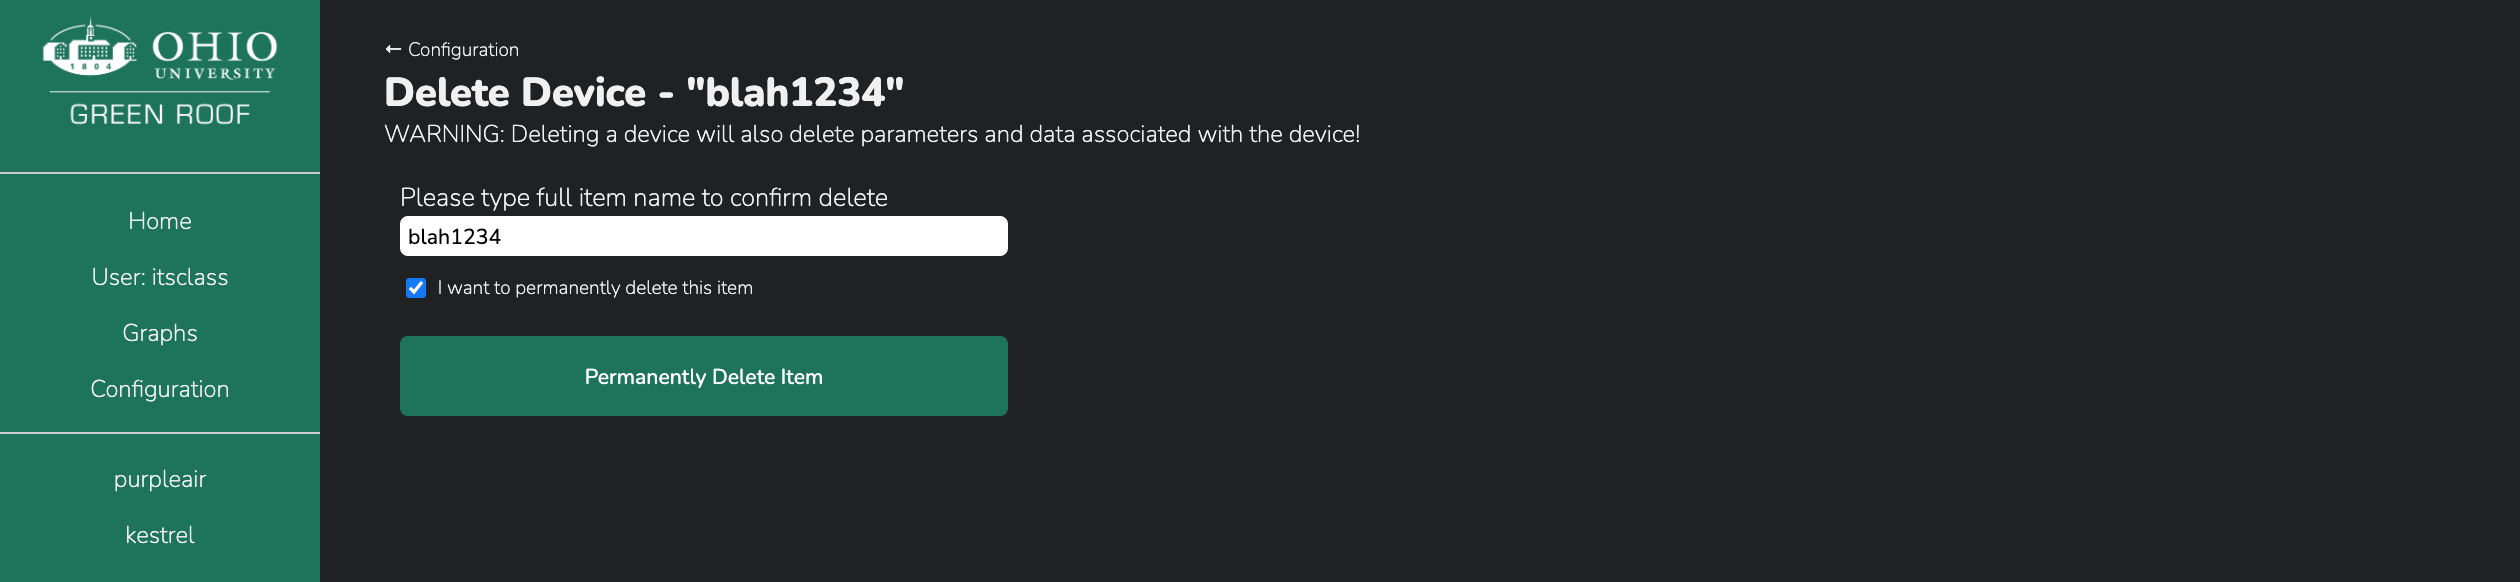
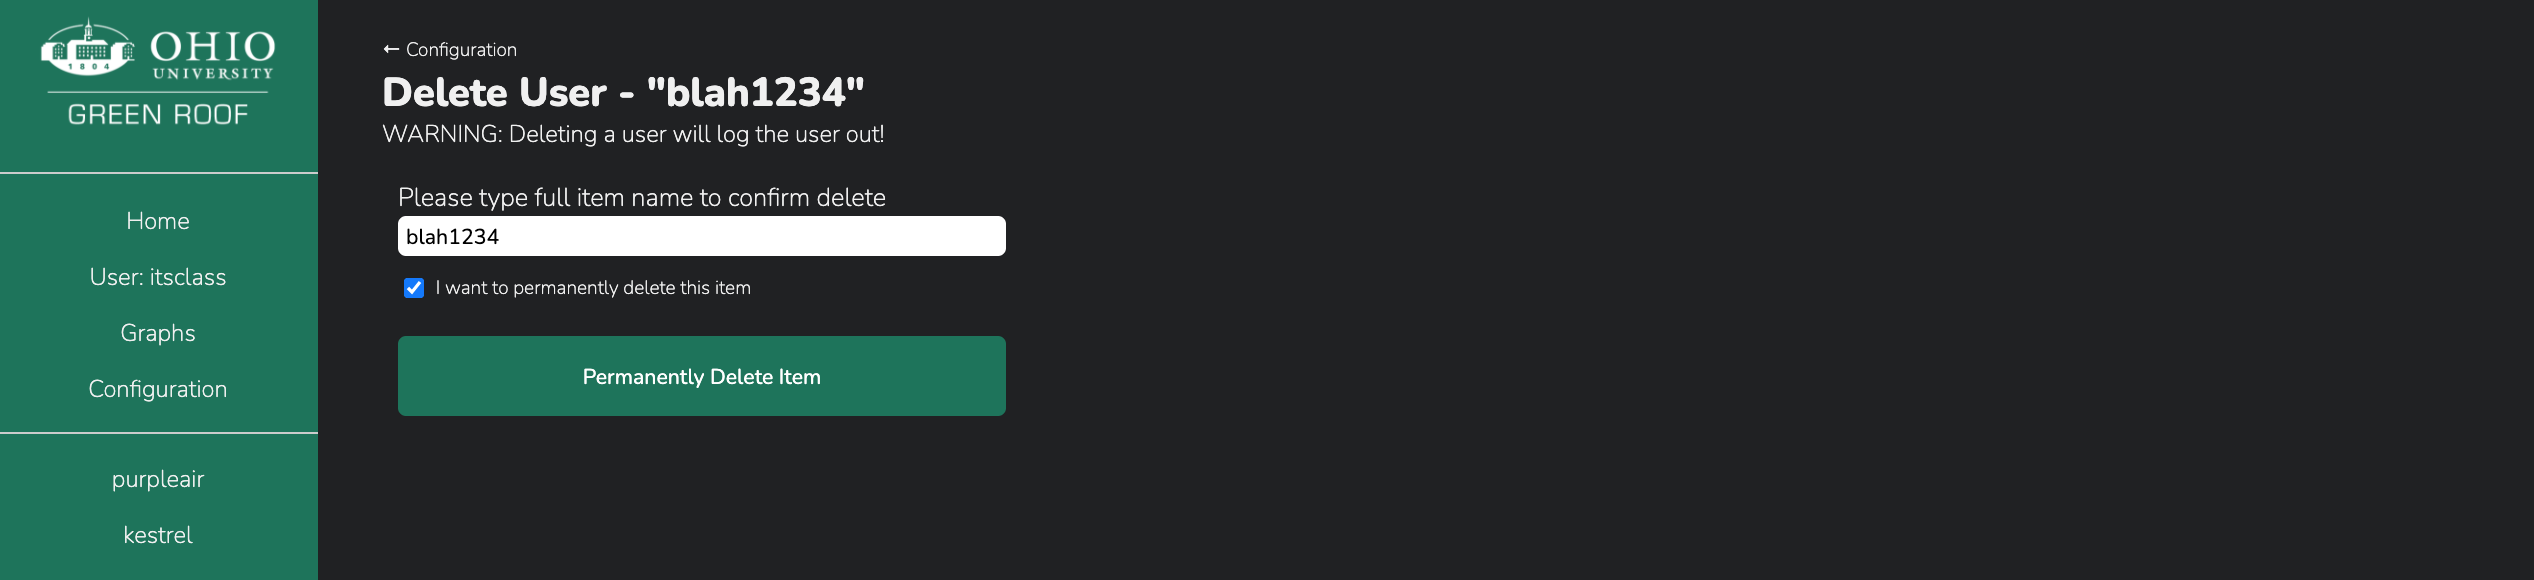
minor changes

diff --git a/green_server/green_server/settings/routes.py b/green_server/green_server/settings/routes.py
@@ -83,7 +83,7 @@ def delete_user(user_id):
     if not user or user.admin:
         abort(404)
     
-    delete_info = 'WARNING: Deleting a device will also delete parameters and data associated with the device!'
+    delete_info = 'WARNING: Deleting a user will log the user out!'
 
     form = DeleteForm()
     if form.validate_on_submit():
@@ -98,7 +98,7 @@ def delete_user(user_id):
         else:
             flash(f'Please check fields', 'danger')
 
-    return render_template('confirm_delete.html', title=f'Delete Device - "{user.username}"', form=form, delete_info=delete_info, devices=Device.query.all())
+    return render_template('confirm_delete.html', title=f'Delete User - "{user.username}"', form=form, delete_info=delete_info, devices=Device.query.all())
 
 # Device
 @settings.route('/device/new', methods=['GET', 'POST'])
